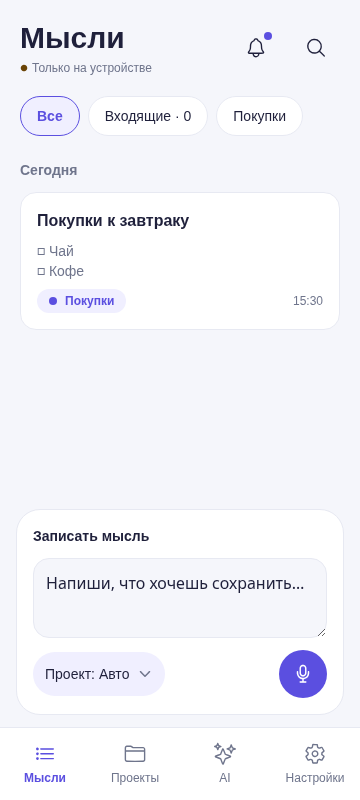
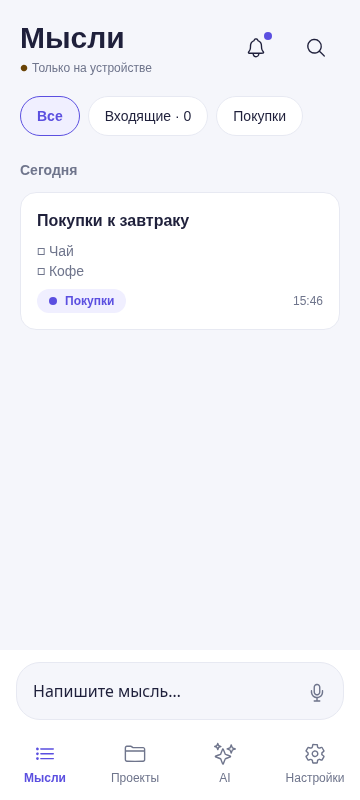
feat(ux): collapse empty capture and reveal project and send below text

diff --git a/thoughts-mvp/apps/mobile/App.tsx b/thoughts-mvp/apps/mobile/App.tsx
@@ -126,6 +126,7 @@ function ThoughtsApp() {
     const [showSearch, setShowSearch] = useState(false)
     const [search, setSearch] = useState('')
     const [showNotifications, setShowNotifications] = useState(false)
+    const [notificationMenu, setNotificationMenu] = useState<string | null>(null)
     const unreadNotifications = state.notifications.filter((item) => !item.read).length
     const observedHistory = useRef<Set<string> | null>(null)
     const [error, setError] = useState('')
@@ -604,46 +605,49 @@ function ThoughtsApp() {
                         </Box>
                     )}
                 </ScrollView>
-                <Box className="mx-4 mb-3 shrink-0 gap-3 rounded-3xl border border-border bg-card p-4">
-                    <Text className="text-sm font-semibold">Записать мысль</Text>
-                    <TextInput
-                        ref={input}
-                        accessibilityLabel="Новая мысль"
-                        placeholder="Напиши, что хочешь сохранить…"
-                        value={draft}
-                        onChangeText={persistDraft}
-                        multiline
-                        maxLength={10000}
-                        editable={!busy}
-                        className="max-h-32 min-h-20 rounded-2xl border border-input bg-background px-3 py-3 text-base text-foreground placeholder:text-muted-foreground focus:border-primary"
-                    />
-                    <Box className="flex-row items-center justify-between gap-3">
-                        <Pressable
-                            accessibilityRole="button"
-                            onPress={() => {
-                                Keyboard.dismiss()
-                                setPicker(true)
-                            }}
-                            className="min-h-11 max-w-[80%] flex-row items-center gap-2 rounded-full bg-secondary px-3"
-                        >
-                            <Text className="shrink text-sm font-medium" numberOfLines={1}>
-                                Проект: {draftProject ? projectName(draftProject) : 'Авто'}
-                            </Text>
-                            <Icon name="chevron-down" size={16} />
-                        </Pressable>
-                        <Pressable
-                            accessibilityRole="button"
-                            accessibilityLabel={hasDraft ? 'Сохранить мысль' : 'Начать диктовку'}
-                            disabled={busy || voice.nativeBusy}
-                            onPress={hasDraft ? () => void saveThought() : startVoice}
-                            className={`h-12 w-12 items-center justify-center rounded-full bg-primary ${busy || voice.nativeBusy ? 'opacity-50' : ''}`}
-                        >
-                            <Icon
-                                name={hasDraft ? 'arrow-up' : 'mic-outline'}
-                                tone="text-primary-foreground"
-                            />
-                        </Pressable>
+                <Box className="shrink-0 gap-1 bg-card px-4 pb-2 pt-3">
+                    <Box className="flex-row items-end rounded-3xl border border-input bg-background p-1">
+                        <TextInput
+                            ref={input}
+                            accessibilityLabel="Новая мысль"
+                            placeholder="Напишите мысль…"
+                            value={draft}
+                            onChangeText={persistDraft}
+                            multiline
+                            numberOfLines={hasDraft ? 3 : 1}
+                            maxLength={10000}
+                            editable={!busy}
+                            className="max-h-32 min-h-11 min-w-0 flex-1 resize-none px-3 py-3 text-base outline-none text-foreground placeholder:text-muted-foreground"
+                        />
+                        {!hasDraft ? (
+                            <Pressable accessibilityRole="button" accessibilityLabel="Начать диктовку"
+                                disabled={busy || voice.nativeBusy} onPress={startVoice}
+                                className={`h-11 w-11 items-center justify-center rounded-full ${busy || voice.nativeBusy ? 'opacity-50' : ''}`}>
+                                <Icon name="mic-outline" tone="text-muted-foreground" />
+                            </Pressable>
+                        ) : null}
                     </Box>
+                    {hasDraft ? (
+                        <Box className="flex-row items-center justify-between gap-3">
+                            <Pressable accessibilityRole="button" accessibilityLabel="Выбрать проект для мысли"
+                                onPress={() => {
+                                    Keyboard.dismiss()
+                                    setPicker(true)
+                                }}
+                                className="min-h-11 min-w-0 max-w-[80%] shrink flex-row items-center gap-2 px-2">
+                                <Icon name="folder-outline" size={16} tone="text-muted-foreground" />
+                                <Text className="shrink text-sm text-muted-foreground" numberOfLines={1}>
+                                    {draftProject ? projectName(draftProject) : 'Выбрать проект'}
+                                </Text>
+                                <Icon name="chevron-down" size={14} tone="text-muted-foreground" />
+                            </Pressable>
+                            <Pressable accessibilityRole="button" accessibilityLabel="Сохранить мысль"
+                                disabled={busy || voice.nativeBusy} onPress={() => void saveThought()}
+                                className={`h-11 w-11 items-center justify-center rounded-full bg-primary ${busy || voice.nativeBusy ? 'opacity-50' : ''}`}>
+                                <Icon name="arrow-up" tone="text-primary-foreground" />
+                            </Pressable>
+                        </Box>
+                    ) : null}
                 </Box>
             </>
         )
@@ -826,8 +830,9 @@ function ThoughtsApp() {
                     </Box>
                     <Pressable accessibilityRole="button" accessibilityLabel={`Уведомления, ${unreadNotifications} непрочитанных`}
                         className="h-12 w-12 items-center justify-center" onPress={() => {
+                            setNotificationMenu(null)
                             setShowNotifications(true)
-                            void localRepository.readNotifications()
+                            void localRepository.readNotifications().catch((e) => setError(e.message))
                         }}>
                         <Icon name="notifications-outline" tone="text-foreground" />
                         {unreadNotifications ? <Box className="absolute right-2 top-2 h-2 w-2 rounded-full bg-primary" /> : null}
@@ -882,7 +887,7 @@ function ThoughtsApp() {
                     />
                 )}
                 {!keyboardOpen && (page !== 'settings' || section === 'home') ? (
-                    <SafeAreaView edges={['bottom']} className="border-t border-border bg-card">
+                    <SafeAreaView edges={['bottom']} className="bg-card">
                         <Box className="flex-row">
                             {(
                                 [
@@ -922,26 +927,48 @@ function ThoughtsApp() {
                     </SafeAreaView>
                 ) : null}
             </KeyboardAvoidingView>
-            <Sheet visible={showNotifications} title="Уведомления" onClose={() => setShowNotifications(false)}>
+            <Sheet visible={showNotifications} title="Уведомления" onClose={() => { setNotificationMenu(null); setShowNotifications(false) }}>
                 {!state.notifications.length ? <Text className="text-muted-foreground">Здесь появятся результаты обработки и подключения.</Text> : null}
                 {[...state.notifications].reverse().map((item) => (
                     <Box key={item.id} className="gap-2 border-b border-border pb-3">
-                        <Text selectable className={item.kind === 'error' ? 'text-destructive' : ''}>{item.message}</Text>
-                        <Text className="text-xs text-muted-foreground">{new Date(item.createdAt).toLocaleString('ru-RU')}</Text>
-                        {item.thoughtId && thoughts.some((note) => note.id === item.thoughtId) ? (
-                            <Action secondary onPress={() => {
-                                setShowNotifications(false)
-                                setEditing({ ...thoughts.find((note) => note.id === item.thoughtId)! })
-                                setNoteMode('read')
-                                setNoteMenu(false)
-                            }}>Открыть мысль</Action>
-                        ) : null}
-                        {item.thoughtId && item.thoughtId === undoId ? (
-                            <Action secondary disabled={busy} onPress={() => void run(async () => {
-                                await api.deleteThought(item.thoughtId!)
-                                setUndoId(null)
-                                setNotice('Сохранение отменено')
-                            })}>Отменить сохранение</Action>
+                        <Box className="flex-row items-start gap-2">
+                            <Box className="min-w-0 flex-1 gap-1">
+                                <Text selectable className={item.kind === 'error' ? 'text-destructive' : ''}>{item.message}</Text>
+                                <Text className="text-xs text-muted-foreground">{new Date(item.createdAt).toLocaleString('ru-RU')}</Text>
+                            </Box>
+                            <Pressable accessibilityRole="button" accessibilityLabel={`Действия с уведомлением: ${item.message}`}
+                                accessibilityState={{ expanded: notificationMenu === item.id }}
+                                onPress={() => setNotificationMenu(notificationMenu === item.id ? null : item.id)}
+                                className="h-11 w-11 items-center justify-center rounded-full">
+                                <Icon name="ellipsis-horizontal" size={20} tone="text-muted-foreground" />
+                            </Pressable>
+                        </Box>
+                        {notificationMenu === item.id ? (
+                            <Box className="self-end rounded-2xl border border-border bg-background py-1">
+                                {item.thoughtId && thoughts.some((note) => note.id === item.thoughtId) ? (
+                                    <Pressable accessibilityRole="button" className="min-h-11 justify-center px-4" onPress={() => {
+                                        setNotificationMenu(null)
+                                        setShowNotifications(false)
+                                        setEditing({ ...thoughts.find((note) => note.id === item.thoughtId)! })
+                                        setNoteMode('read')
+                                        setNoteMenu(false)
+                                    }}><Text>Открыть мысль</Text></Pressable>
+                                ) : null}
+                                {item.thoughtId && item.thoughtId === undoId ? (
+                                    <Pressable accessibilityRole="button" disabled={busy} className="min-h-11 justify-center px-4"
+                                        onPress={() => void run(async () => {
+                                            await api.deleteThought(item.thoughtId!)
+                                            setNotificationMenu(null)
+                                            setUndoId(null)
+                                            setNotice('Сохранение отменено')
+                                        })}><Text className="text-destructive">Отменить сохранение</Text></Pressable>
+                                ) : null}
+                                <Pressable accessibilityRole="button" className="min-h-11 justify-center px-4"
+                                    onPress={() => void run(async () => {
+                                        await localRepository.removeNotification(item.id)
+                                        setNotificationMenu(null)
+                                    })}><Text className="text-muted-foreground">Удалить уведомление</Text></Pressable>
+                            </Box>
                         ) : null}
                     </Box>
                 ))}

diff --git a/thoughts-mvp/apps/mobile/src/localCore.ts b/thoughts-mvp/apps/mobile/src/localCore.ts
@@ -286,6 +286,9 @@ export function createLocalRepository(
                 s.notifications = s.notifications.slice(-100)
             }),
         readNotifications: () => mutate((s) => { s.notifications.forEach((item) => { item.read = true }) }),
+        removeNotification: (notificationId: string) => mutate((s) => {
+            s.notifications = s.notifications.filter((item) => item.id !== notificationId)
+        }),
         clearNotifications: () => mutate((s) => { s.notifications = [] }),
         preferences: (patch: Partial<Preferences>) =>
             mutate((s) => {

diff --git a/README.md b/README.md
@@ -16,7 +16,7 @@
 
 ## Быстро записать — легко найти
 
-- **Текст и голос.** Напиши в поле ввода или начни диктовку. При вводе текста микрофон заменяется кнопкой сохранения.
+- **Текст и голос.** Напиши в поле ввода или начни диктовку. Пустое поле занимает одну строку с микрофоном. При вводе текста поле расширяется, а выбор проекта и отправка появляются ниже.
 - **ИИ разбирает мысли.** Создаёт короткий заголовок, резюме, списки и выбирает проект. Новые проекты и типы создаются автоматически; подтверждение можно включить в настройках.
 - **Задачи со списками.** Отмечай выполненные пункты прямо в заметке.
 - **Правки своими словами.** Нажми «Обработать ИИ ещё раз» и объясни, что изменить.
